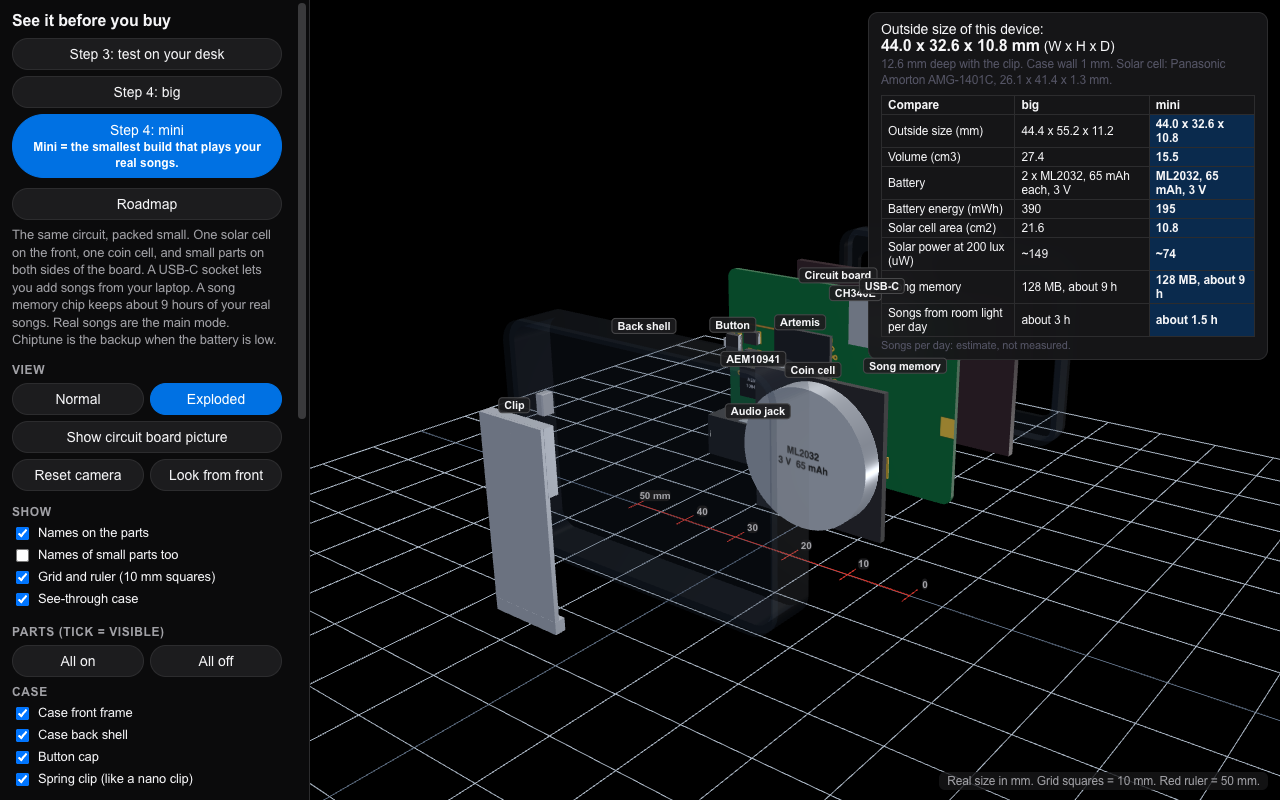
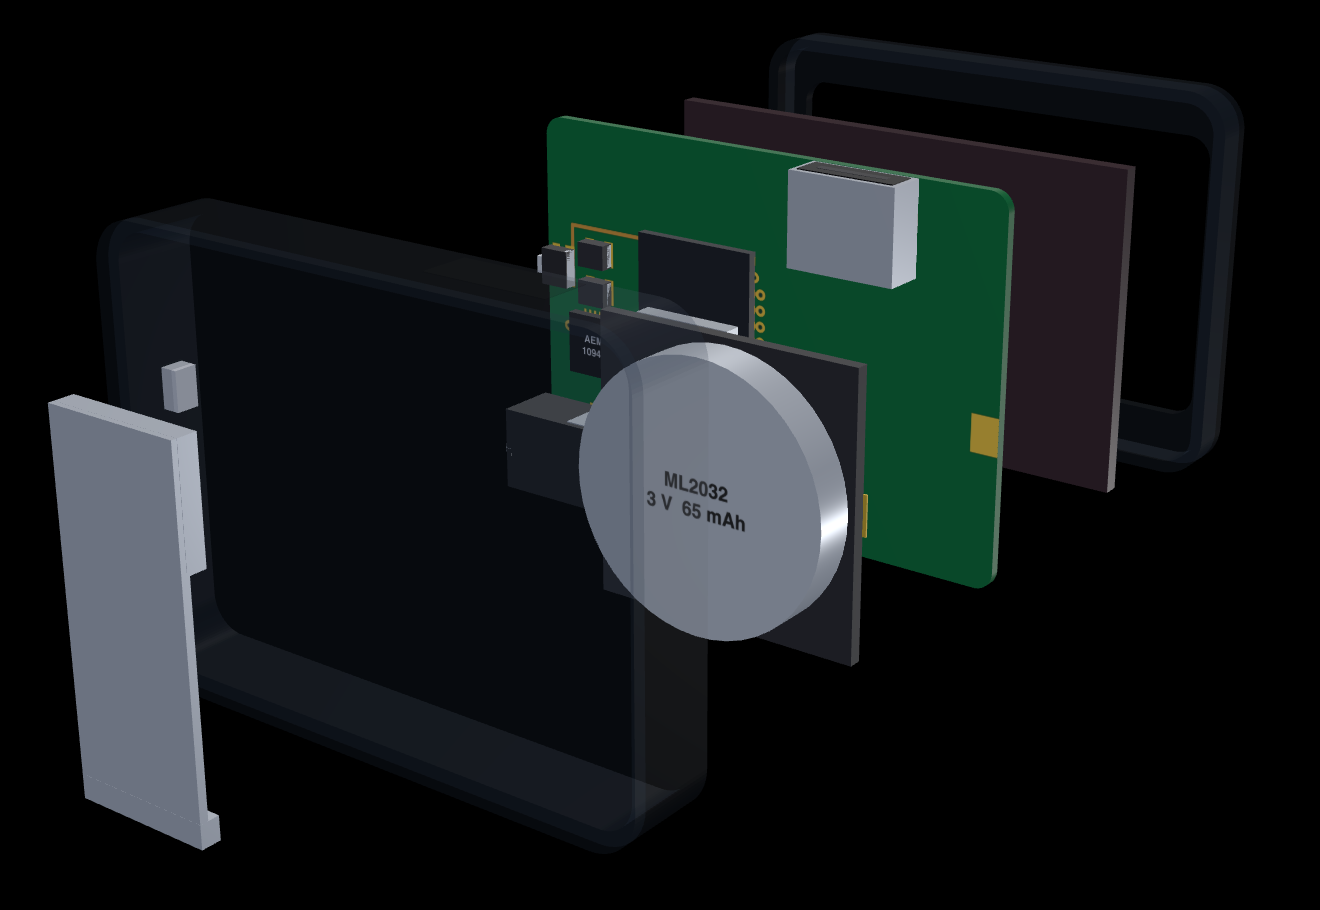
Landing: 'See every part' image is the exploded device only

diff --git a/site/app/page.tsx b/site/app/page.tsx
@@ -95,7 +95,7 @@ export default function Home() {
           <Reveal delay={0.1} className="mt-[3svh] w-full">
             <a href="/build" className="group block overflow-hidden rounded-[22px] border border-line bg-black">
               {/* eslint-disable-next-line @next/next/no-img-element */}
-              <img src="/inside.png" alt="Exploded 3D view of the Sunbeat clip with every part named" className="w-full transition-transform duration-700 group-hover:scale-[1.015]" />
+              <img src="/inside.png" alt="The Sunbeat clip pulled apart: case, solar cell, circuit board, coin cell and clip" className="w-full transition-transform duration-700 group-hover:scale-[1.015]" />
             </a>
           </Reveal>
           <Reveal delay={0.2}><a href="/build" className="mt-[3svh] inline-block rounded-full bg-sun px-6 py-3 text-[17px] font-semibold text-black hover:brightness-110">Open the 3D model</a></Reveal>
